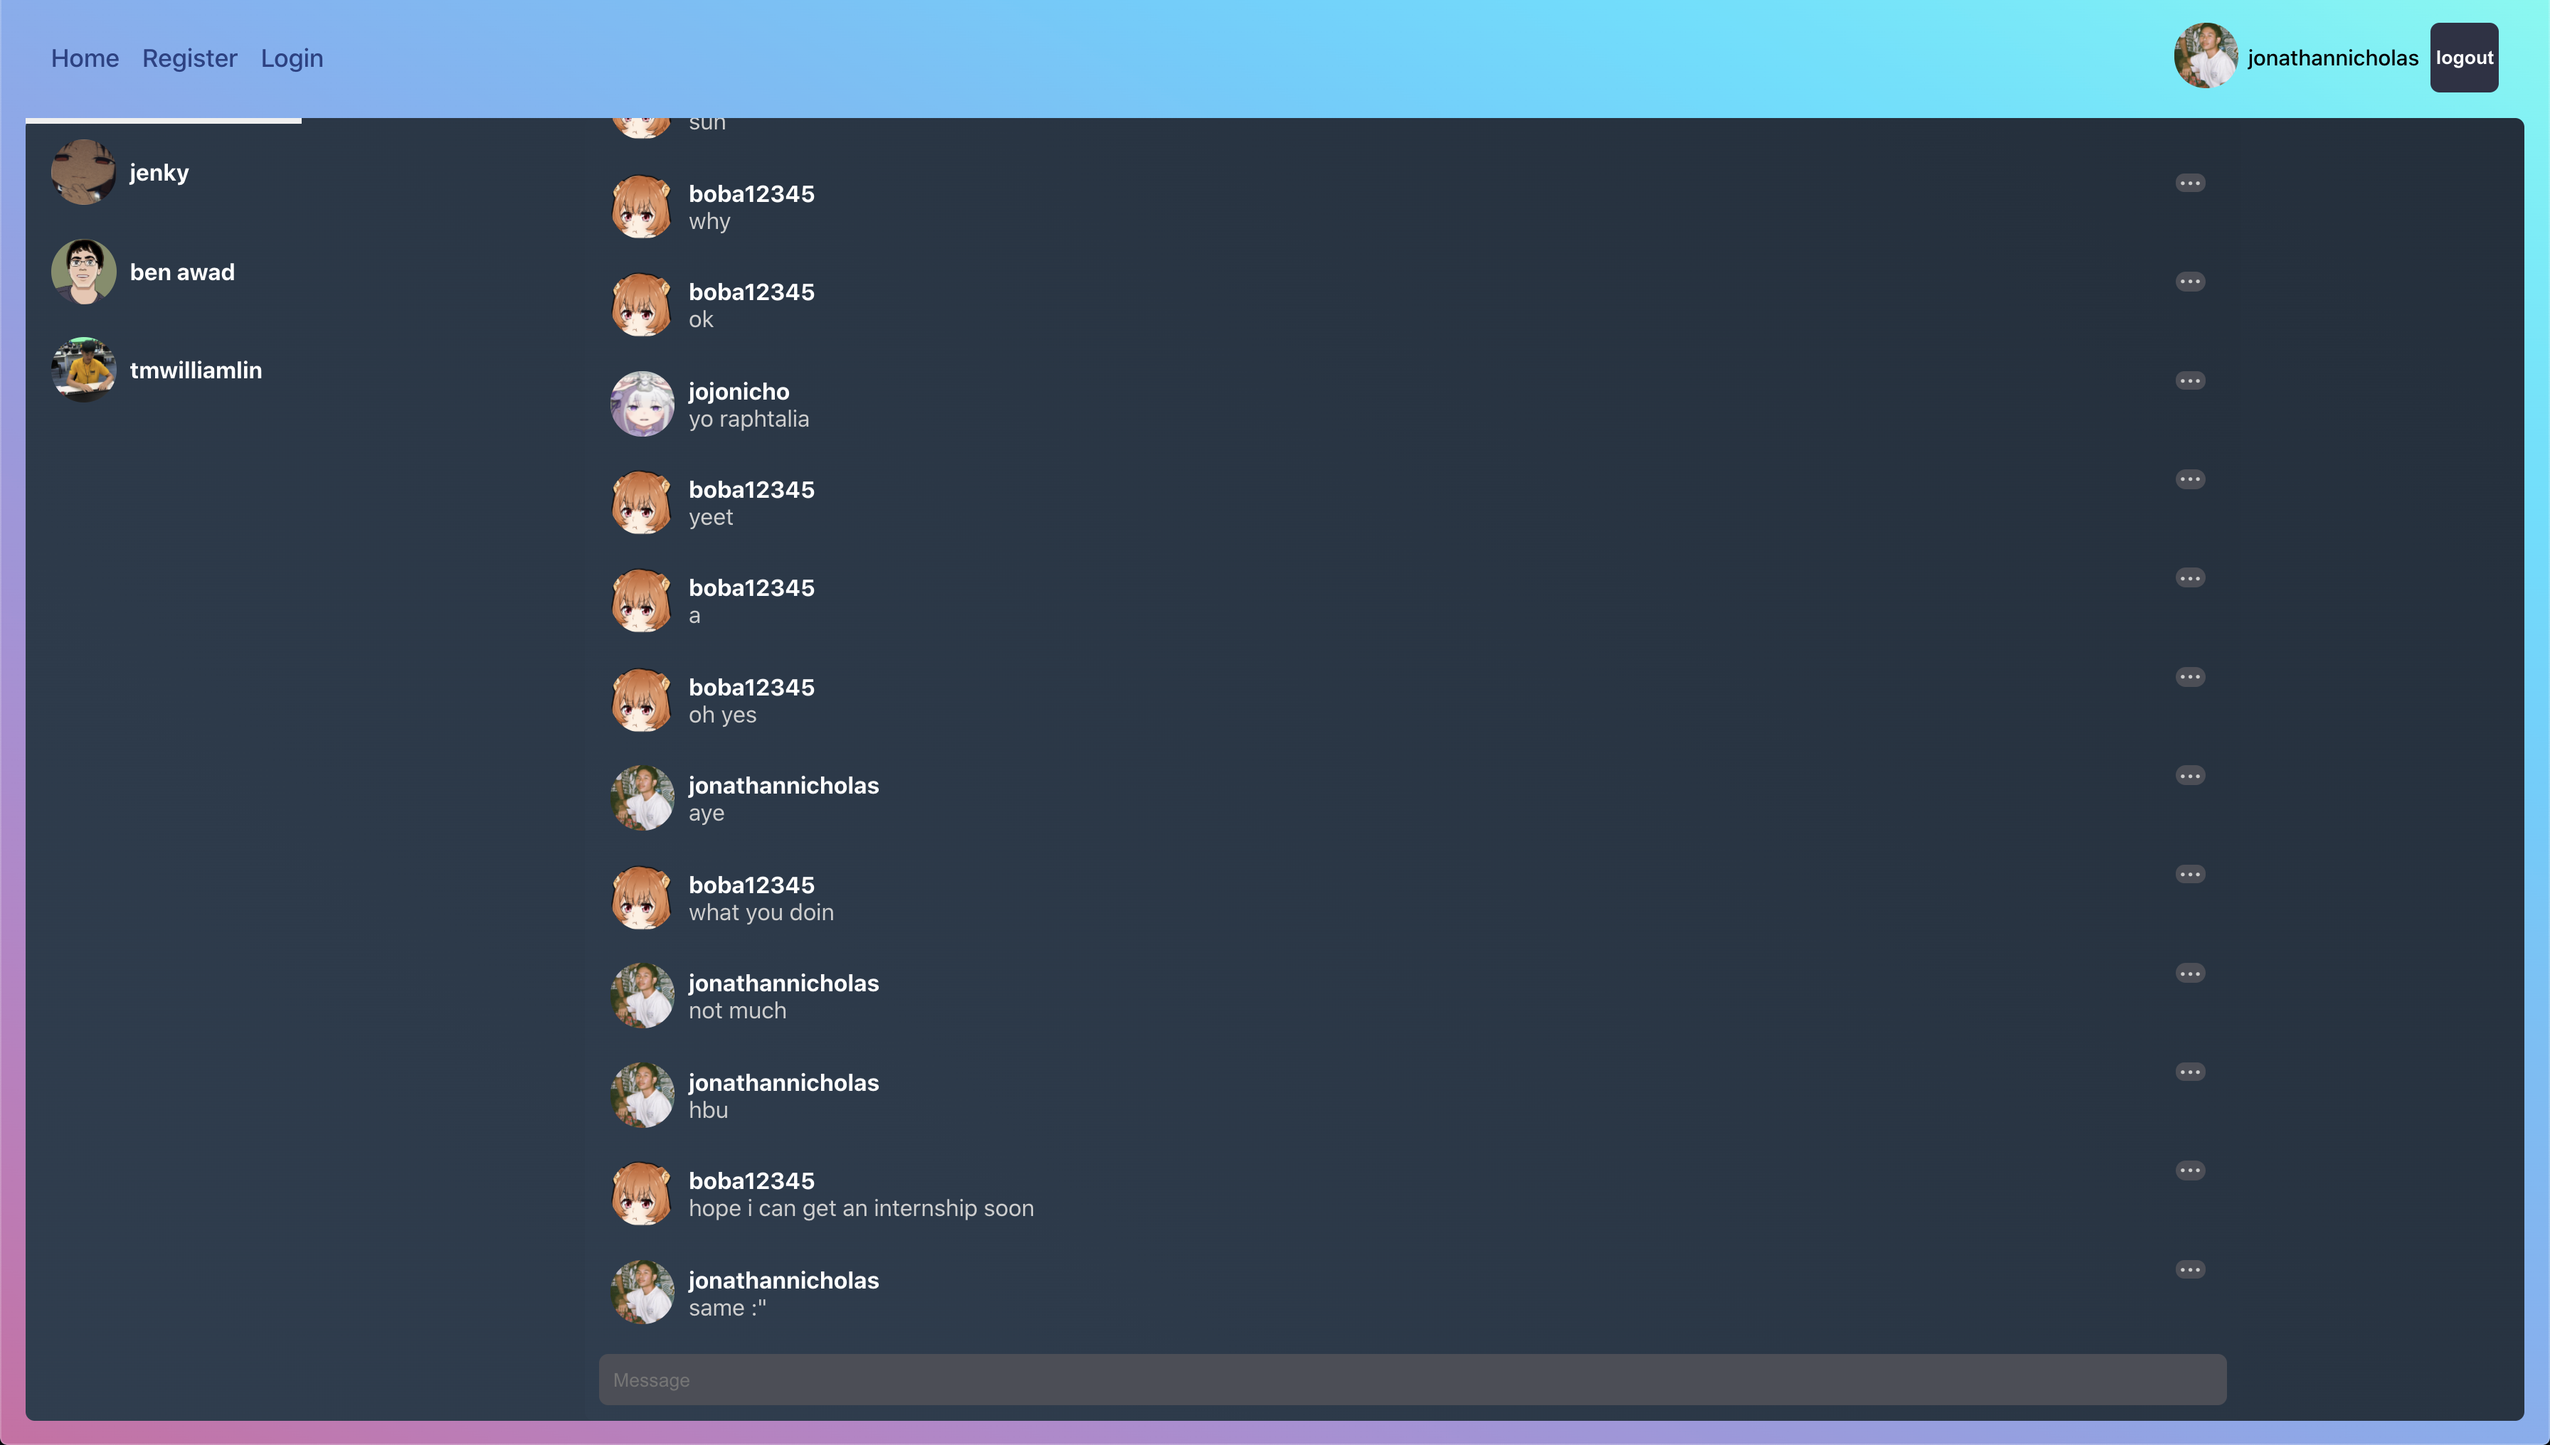
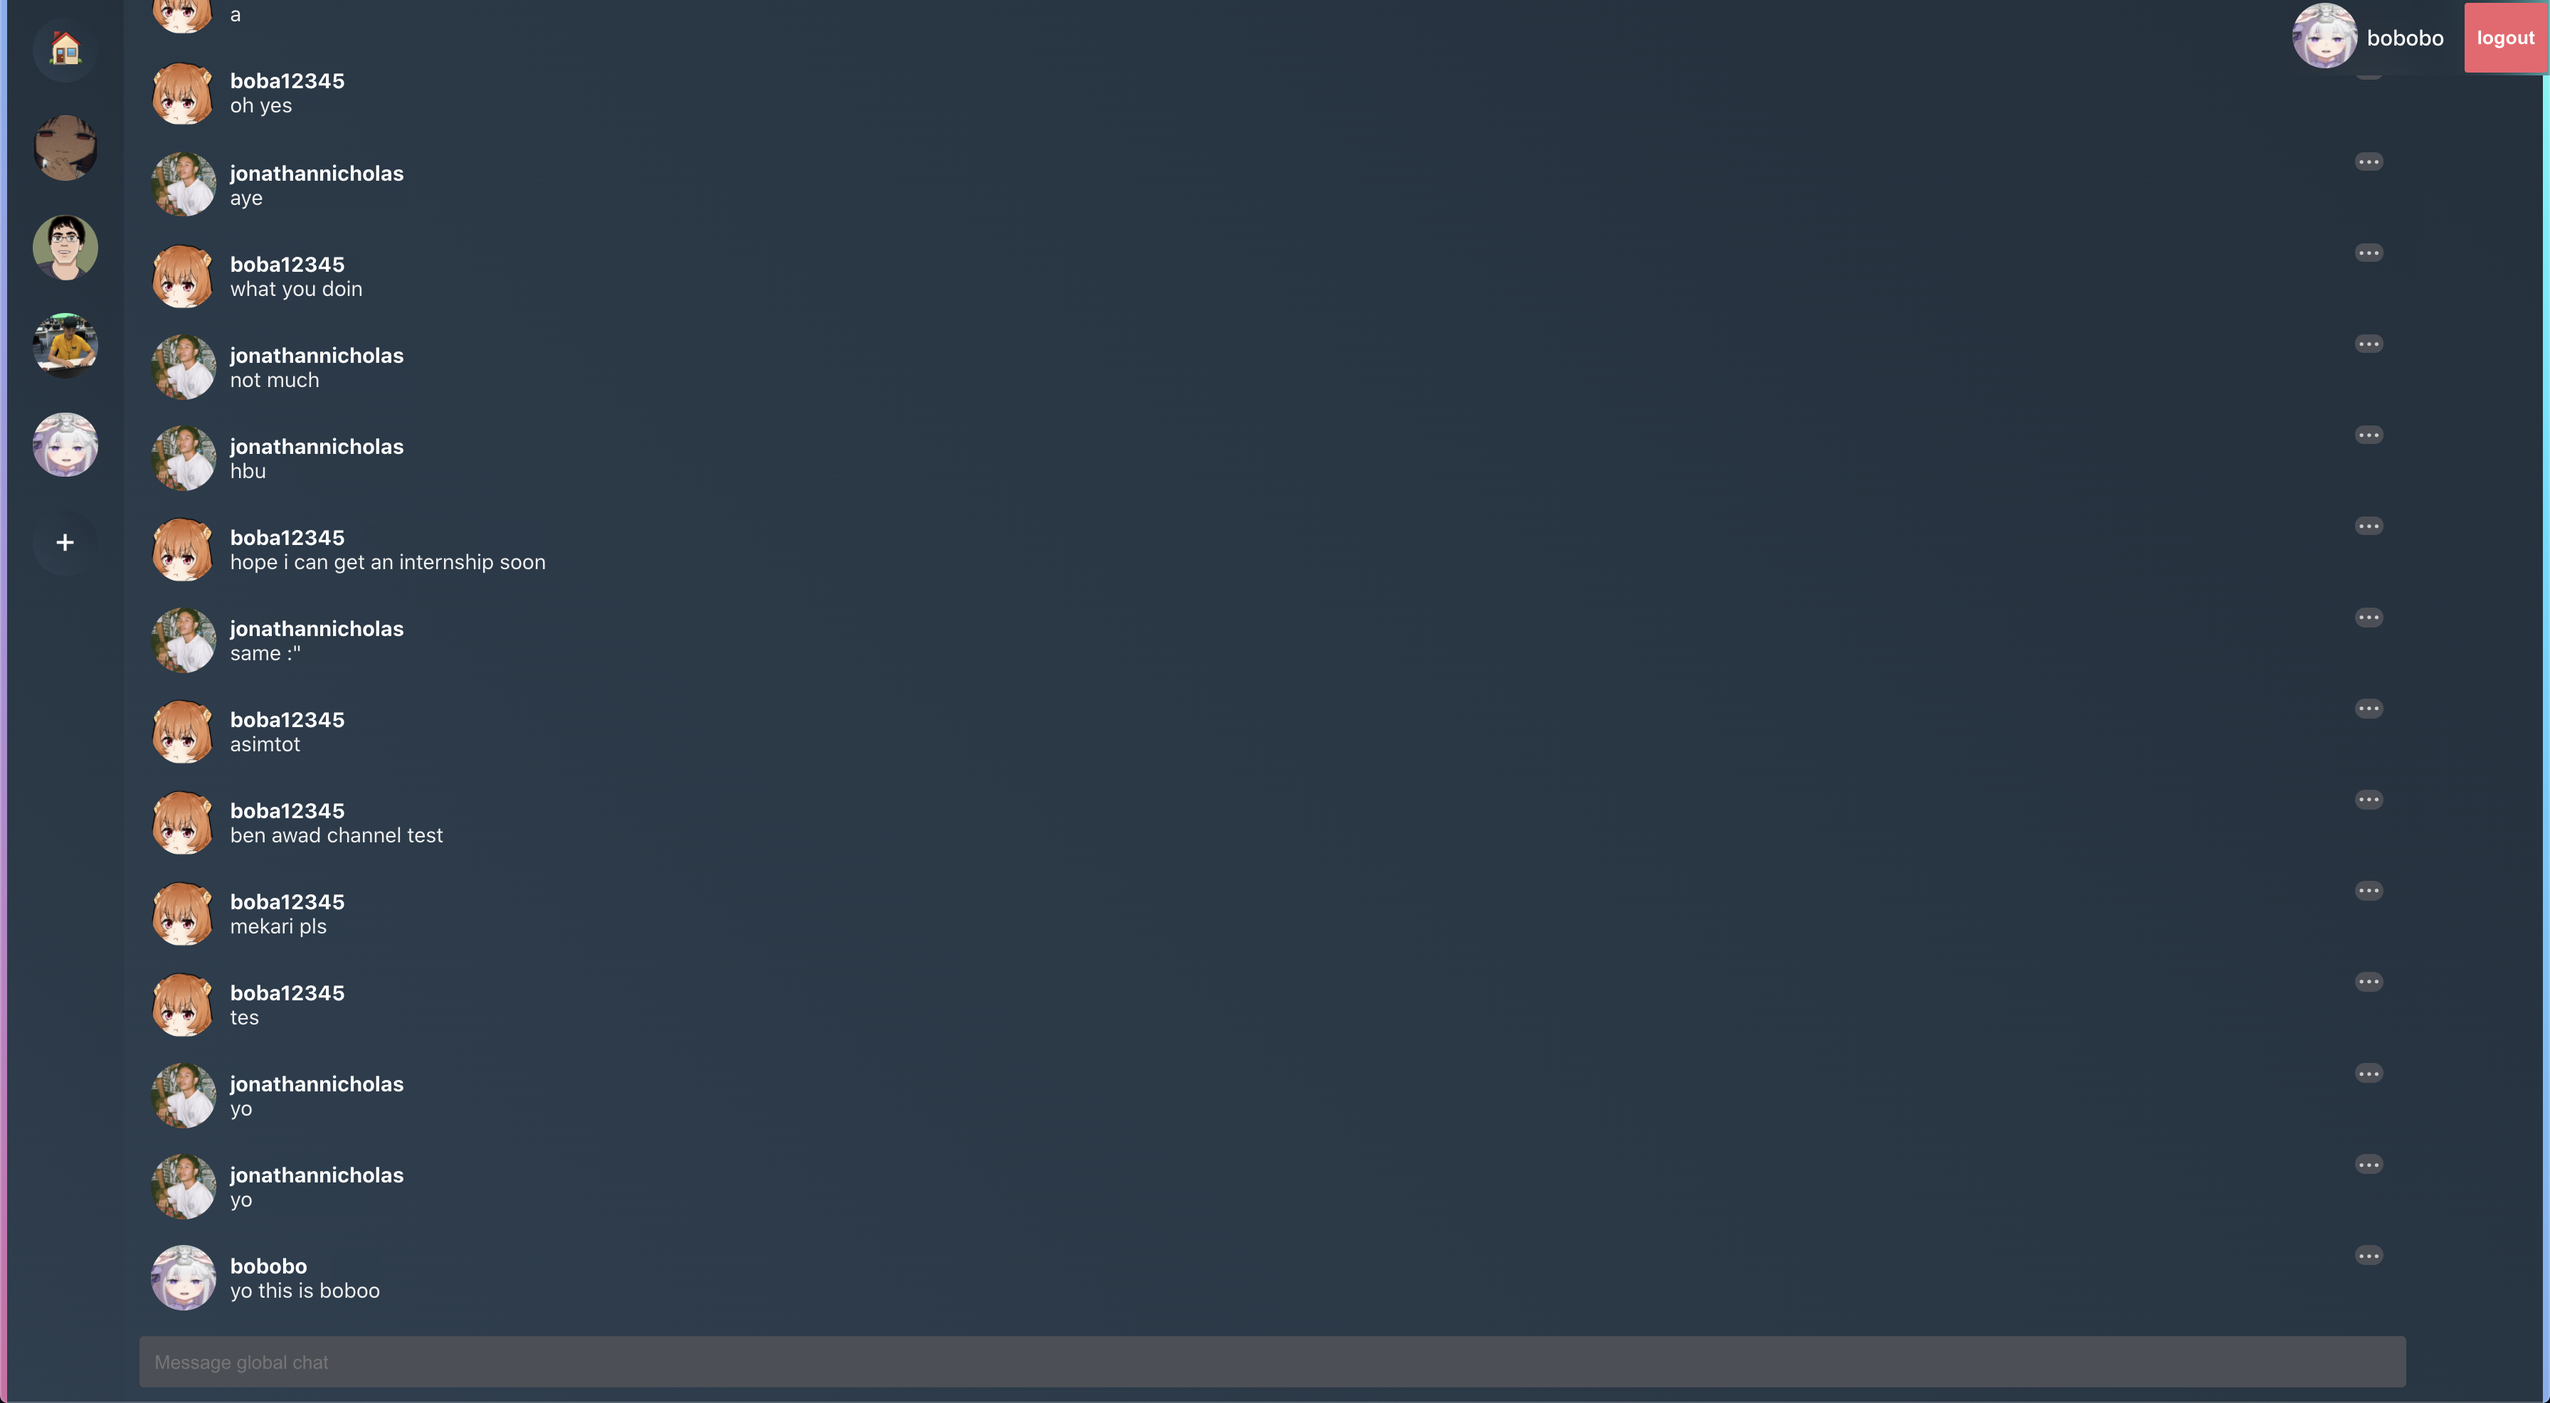
:art:(ChannelList): beautify UI

diff --git a/components/MessageList/Message.tsx b/components/MessageList/Message.tsx
@@ -1,6 +1,6 @@
 import React, { useState } from 'react'
 import styled from '@emotion/styled'
-import { useDeleteMessageMutation } from '../generated/graphql'
+import { useDeleteMessageMutation } from '../../generated/graphql'
 
 interface MessageProps {
   id: number
@@ -14,28 +14,33 @@ const Content = styled.div`
   flex-direction: row;
   align-items: center;
   &:hover {
-    background-color: ${({ theme }) => theme.colors.black.light};
+    background: ${({ theme }) => theme.colors.black.light};
   }
   border-radius: ${({ theme }) => theme.borderRadius.default};
   p {
-    color: ${({ theme }) => theme.colors.white.grey};
+    color: ${({ theme }) => theme.colors.white.light};
+    font-size: calc(0.8rem + 0.1vw);
+  }
+  h1 {
+    font-size: calc(0.8rem + 0.1vw);
   }
 `
 
 const MessageContainer = styled.div`
-  padding: calc(0.3vw + 0.4rem) 1vw;
+  padding: calc(0.15vw + 0.4rem) 1vw;
   display: flex;
   flex-direction: row;
   justify-content: space-between;
   align-items: flex-start;
   &:hover {
-    background-color: ${({ theme }) => theme.colors.black.light};
+    background: ${({ theme }) => theme.colors.black.light};
   }
   border-radius: ${({ theme }) => theme.borderRadius.default};
   transition: ${({ theme }) => theme.transitions.boom.transition};
 `
 const Detail = styled.div`
   margin: 0 0.6rem;
+  backdrop-filter: blur(30px);
 `
 const Img = styled.img`
   width: calc(1vw + 1.75rem);

diff --git a/components/ChannelList/Channel.tsx b/components/ChannelList/Channel.tsx
@@ -25,7 +25,7 @@ const ChannelContainer = styled.div`
   border-radius: ${({ theme }) => theme.borderRadius.default};
   transition: ${({ theme }) => theme.transitions.boom.transition};
   &:hover {
-    background-color: ${({ theme }) => theme.colors.black.light};
+    background: ${({ theme }) => theme.colors.black.light};
     img {
       transform: scale(1.15);
     }
@@ -36,7 +36,7 @@ const Content = styled.div`
   flex-direction: row;
   align-items: center;
   &:hover {
-    background-color: ${({ theme }) => theme.colors.black.light};
+    background: ${({ theme }) => theme.colors.black.light};
   }
   border-radius: ${({ theme }) => theme.borderRadius.default};
   p {
@@ -50,8 +50,11 @@ const Detail = styled.div<DetailProps>`
   display: ${(props) => (props.open ? 'flex' : 'none')};
   z-index: 20;
   position: fixed;
+  left: calc(1.5vw + 2rem);
   border-radius: ${({ theme }) => theme.borderRadius.default};
-  background: ${({ theme }) => theme.colors.background.ddark};
+  // color: ${({ theme }) => theme.colors.background.ddark};
+  color: ${({ theme }) => theme.colors.white.base};
+  backdrop-filter: blur(30px);
   padding: 10px;
 `
 const Img = styled.img`

diff --git a/pages/index.tsx b/pages/index.tsx
@@ -14,7 +14,7 @@ import {
   useLogoutMutation,
 } from '../generated/graphql'
 import { useForm } from 'react-hook-form'
-import { Message } from '../components/Message'
+import { Message } from '../components/MessageList/Message'
 import ChannelList from '../components/ChannelList'
 import Login from './login'
 import { Navbar } from '../components/Navbar'
@@ -44,7 +44,7 @@ const Chat = styled.div`
 `
 const IndexContainer = styled.div`
   height: 100vh;
-  width: 99vw;
+  width: calc(99vw + 0.5rem);
   // margin: 1vw;
   display: flex;
   flex-direction: row;
@@ -156,7 +156,11 @@ const Home = () => {
             </Chat>
             <InputContainer>
               <form onSubmit={onSubmit}>
-                <Input name="content" placeholder="Message" ref={register} />
+                <Input
+                  name="content"
+                  placeholder="Message global chat"
+                  ref={register}
+                />
               </form>
             </InputContainer>
           </ChatContainer>

diff --git a/components/Navbar.tsx b/components/Navbar.tsx
@@ -9,7 +9,7 @@ import { BarLoader } from 'react-spinners'
 
 const Nav = styled.nav`
   // padding: 1vw 2vw 0 2vw;
-  margin-right: 0.5vw;
+  // margin-right: 0.5vw;
   padding: 2px;
   display: flex;
   justify-content: space-between;
@@ -19,7 +19,19 @@ const Nav = styled.nav`
   position: absolute;
   right: 0;
   // background: ${({ theme }) => theme.colors.snazzy.mekariPurple};
-  backdrop-filter: blur(3px);
+  // border-radius: 5px;
+  backdrop-filter: blur(30px);
+  // border: 1px solid white;
+  // @media (-webkit-min-device-pixel-ratio: 2){
+  //   border-width: 0.5px;
+  // }
+  // backdrop-filter: brightness(60%);
+  // backdrop-filter: contrast(40%);
+  // backdrop-filter: drop-shadow(4px 4px 10px blue);
+  // backdrop-filter: grayscale(30%);
+  // backdrop-filter: hue-rotate(120deg);
+  // backdrop-filter: invert(70%);
+  // backdrop-filter: opacity(20%);
 `
 // const Navlink = styled.div`
 //   a {

diff --git a/pages/channels/[id].tsx b/pages/channels/[id].tsx
@@ -14,7 +14,7 @@ import {
   useMeQuery,
 } from '../../generated/graphql'
 import { useForm } from 'react-hook-form'
-import { Message } from '../../components/Message'
+import { Message } from '../../components/MessageList/Message'
 import { Channel } from '../../components/ChannelList/Channel'
 import ChannelList from '../../components/ChannelList'
 import { BarLoader } from 'react-spinners'

diff --git a/components/ChannelList/index.tsx b/components/ChannelList/index.tsx
@@ -13,6 +13,8 @@ interface ChannelListProps {
 const ChannelContainer = styled.div`
   display: flex;
   flex-direction: column;
+  margin-right: 0.1rem;
+  background: ${({ theme }) => theme.gradient.rightToLeft};
 `
 const AddChannelContainer = styled.div`
   padding: calc(0.3vw + 0.4rem) 1vw;

diff --git a/pages/_app.tsx b/pages/_app.tsx
@@ -24,6 +24,8 @@ const Container = styled.div`
   display: flex;
   justify-content: center;
   align-items: center;
+  width: 100vw;
+  height: 100vh;
 `
 
 const MyApp = ({ Component, pageProps, apolloClient }) => {

diff --git a/lib/theme.ts b/lib/theme.ts
@@ -104,7 +104,7 @@ export const theme = {
     big: '83.33333rem',
   },
   borderRadius: {
-    default: '0.4rem',
+    default: '0.2rem',
     round: '100rem',
   },
   transitions: {
